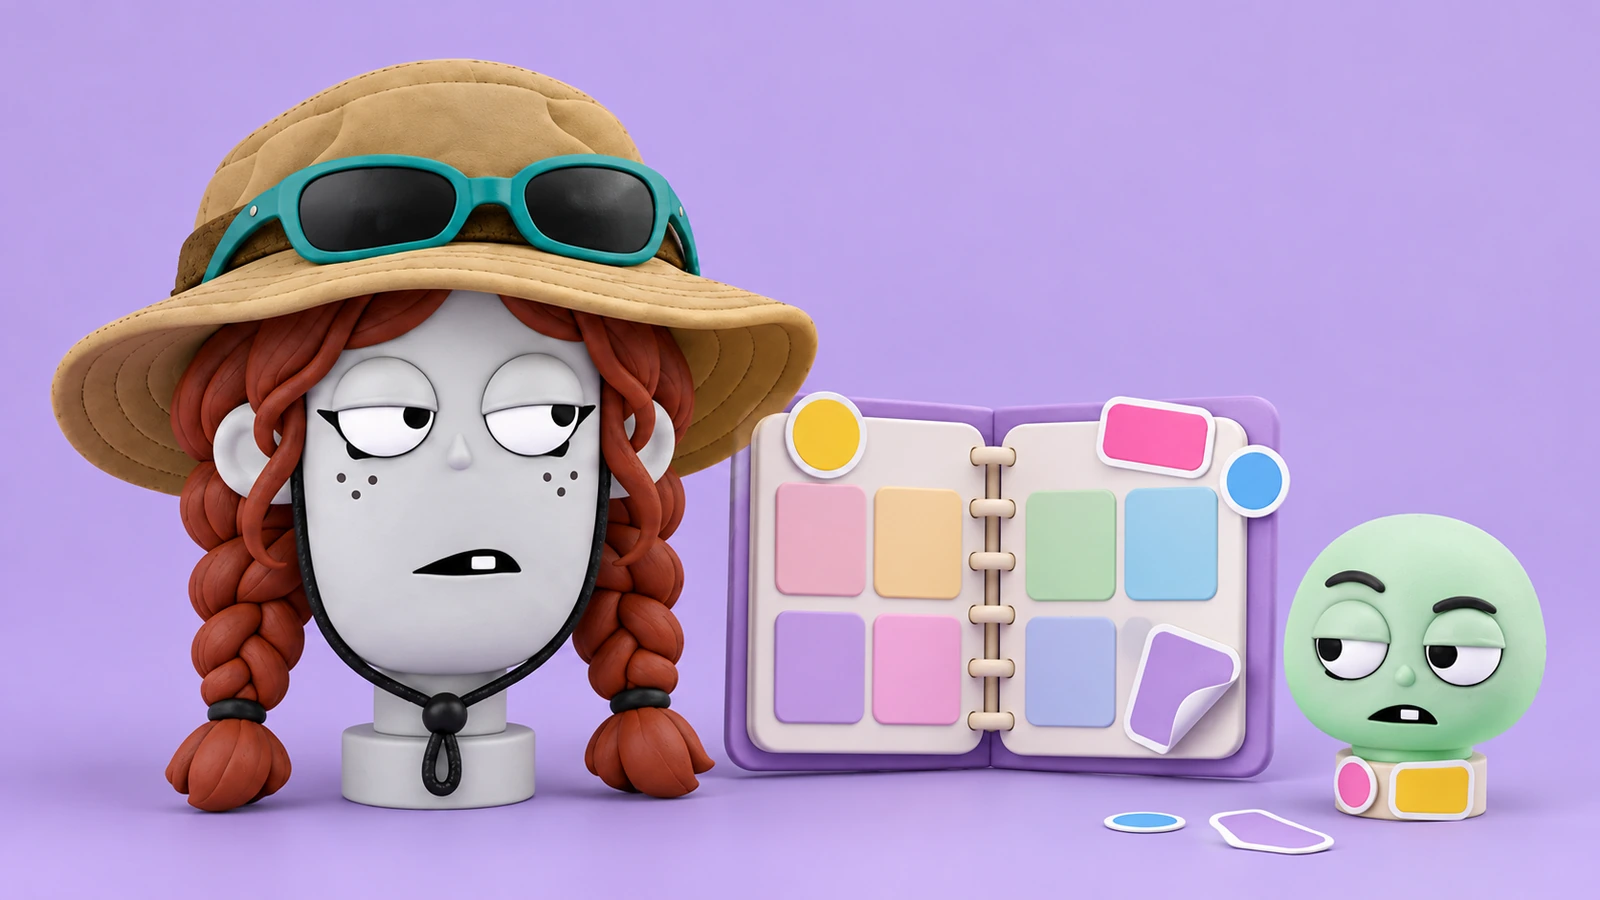
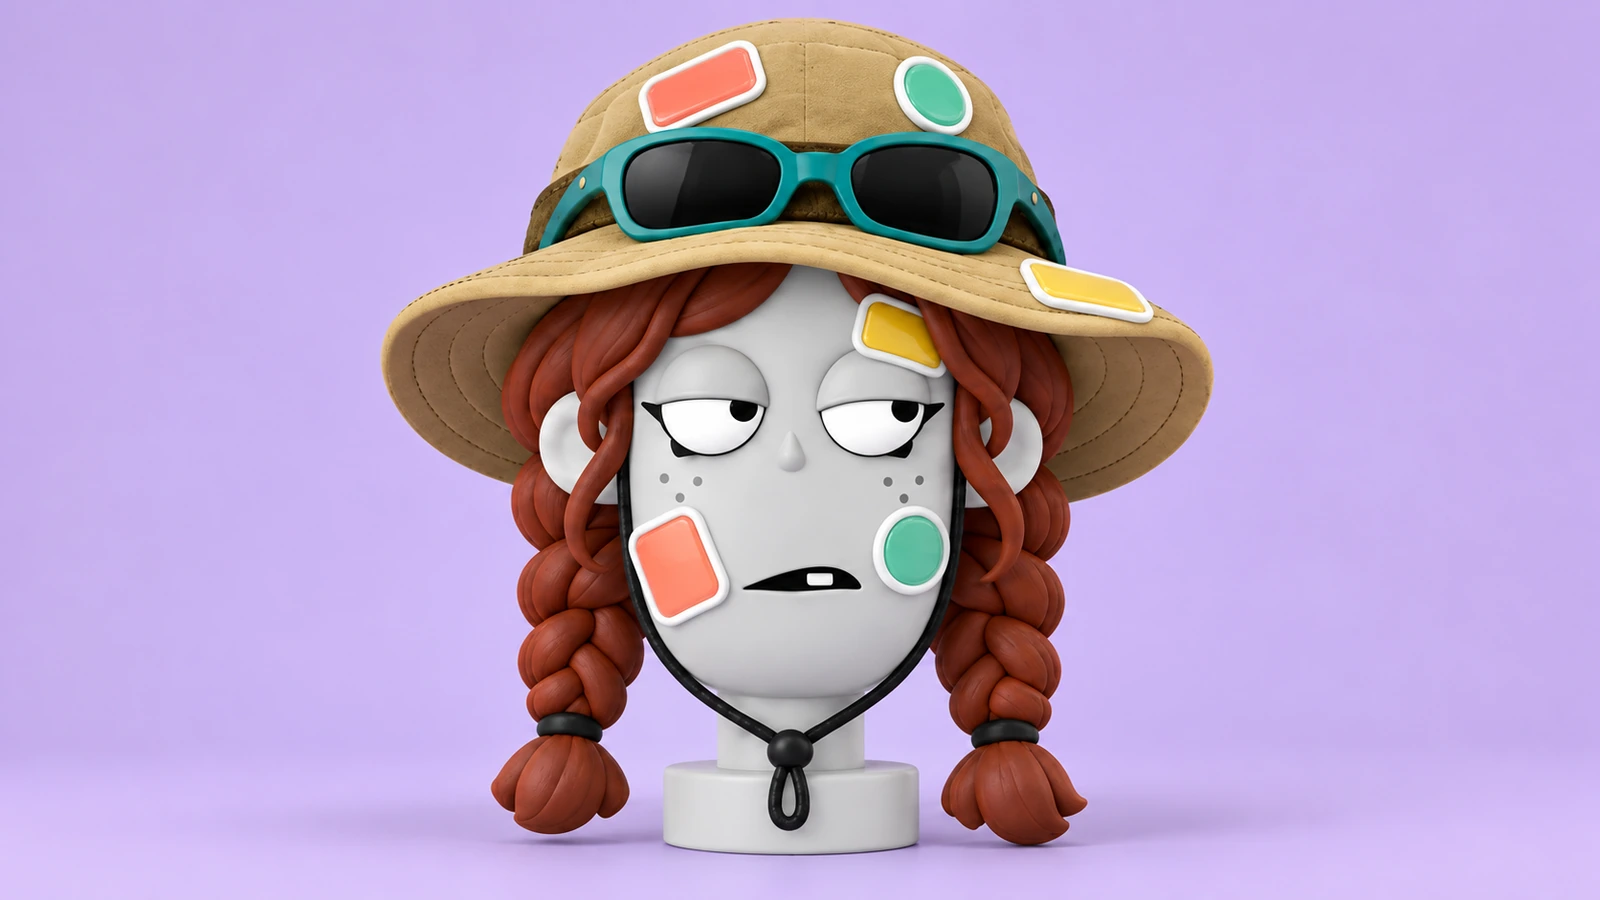
SEF-179: habits-stick v8 + Ben SEO fields
Replace sticker image (stickers on face/hat). Update emoji, seoTitle,
seoDescription, and topics from בן.

diff --git a/src/content/posts/he/2026-10-17-still-alone.md b/src/content/posts/he/2026-10-17-still-alone.md
@@ -1,11 +1,11 @@
 ---
 title: "יש לי עוזר פרטי. למה אני עדיין עושה הכול לבד?"
-emoji: "🧲"
+emoji: "🪞"
 description: "יש לי עוזר פרטי. ועד שאני נזכר לבקש ממנו משהו, כבר עשיתי את העבודה לבד. איך מצמידים בקשה לפעולה שכבר קיימת ביום, בודקים דגימה קטנה, ומפסיקים לנהל כל שלוח לבד."
 listDescription: "יש לי עוזר פרטי. ועד שאני נזכר לבקש ממנו משהו, כבר עשיתי את העבודה לבד."
-seoTitle: "למה עם עוזר פרטי עדיין עושים הכול לבד"
-seoDescription: "יש לי עוזר פרטי, ועד שאני נזכר לבקש כבר עשיתי לבד. מצמידים בקשה לפעולה שכבר קיימת ביום, בודקים דגימה קטנה, ומפסיקים לנהל את השְׁלוּחִים אחד־אחד."
-topics: ["grok-bot", "everyday-ai"]
+seoTitle: "יש לי עוזר פרטי. למה אני עדיין עושה הכול לבד?"
+seoDescription: "יש עוזר פרטי ועדיין עושים הכול לבד? איך לגרום לשימוש ב־שְׁלוּחִים להידבק ליום: צילום מסך, קול, והרגל קטן שחוזר."
+topics: ["everyday-ai", "grok-bot"]
 date: 2026-10-17
 draft: false
 heOnly: true
@@ -36,7 +36,7 @@ socialImage: "/images/posts/still-alone-share-1200.webp"
 
 אז השאלה היא איך גורמים לשימוש היומיומי באמת להידבק.
 
-![כנרת ליד לוח מדבקות: הרגלים שנדבקים כמו מדבקות](/images/posts/still-alone-habits-stick-1600.webp)
+![כנרת עם מדבקות על הפנים והכובע: הרגלים שנדבקים](/images/posts/still-alone-habits-stick-1600.webp)
 
 ## הבוקר התחיל בלעדיו
 
